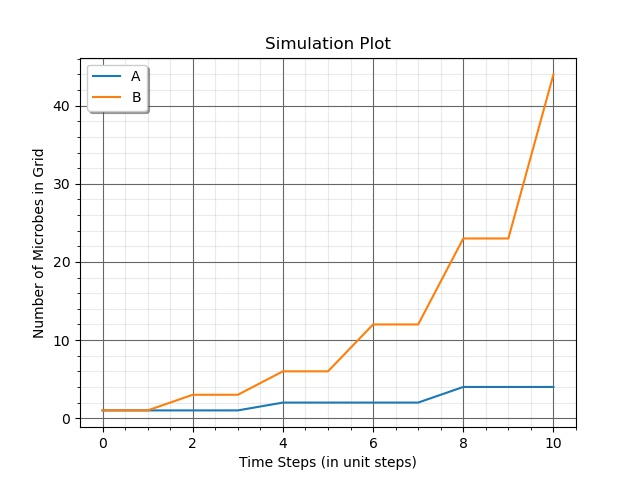
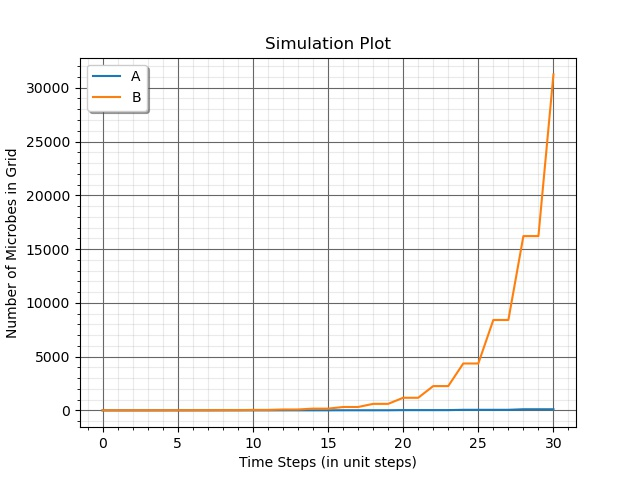
improve gif support

diff --git a/src/World.py b/src/World.py
@@ -90,17 +90,17 @@ class World():
             plt.show()
         if anim:
             fig = plt.figure()
-            plt.title('Simulation Plot')
-            plt.legend(list(tdict.keys()), loc='upper left', shadow=True)
-            plt.ylabel('Number of Microbes in Grid')
-            plt.xlabel('Time Steps (in unit steps)')
-            plt.grid(b=True, which='major', color='#666666', linestyle='-')
-            plt.minorticks_on()
-            plt.grid(b=True, which='minor', color='#999999', linestyle='-', alpha=0.2)
             def buildmebarchart(i=int):
-                plt.legend(tdict.keys())
+                plt.clf()
+                plt.title('Simulation Plot')
+                plt.ylabel('Number of Microbes in Grid')
+                plt.xlabel('Time Steps (in unit steps)')
+                plt.grid(b=True, which='major', color='#666666', linestyle='-')
+                plt.minorticks_on()
+                plt.grid(b=True, which='minor', color='#999999', linestyle='-', alpha=0.2)
                 for state in tdict.keys():
-                    plt.plot(tdict[state][:i])
+                    plt.plot(tdict[state][:i], label = state)
+                plt.legend(loc='upper left', shadow=True)
             animator = ani.FuncAnimation(fig, buildmebarchart, interval=150)
             animator.save(self.config_obj.example_path + '/results.gif')
 
